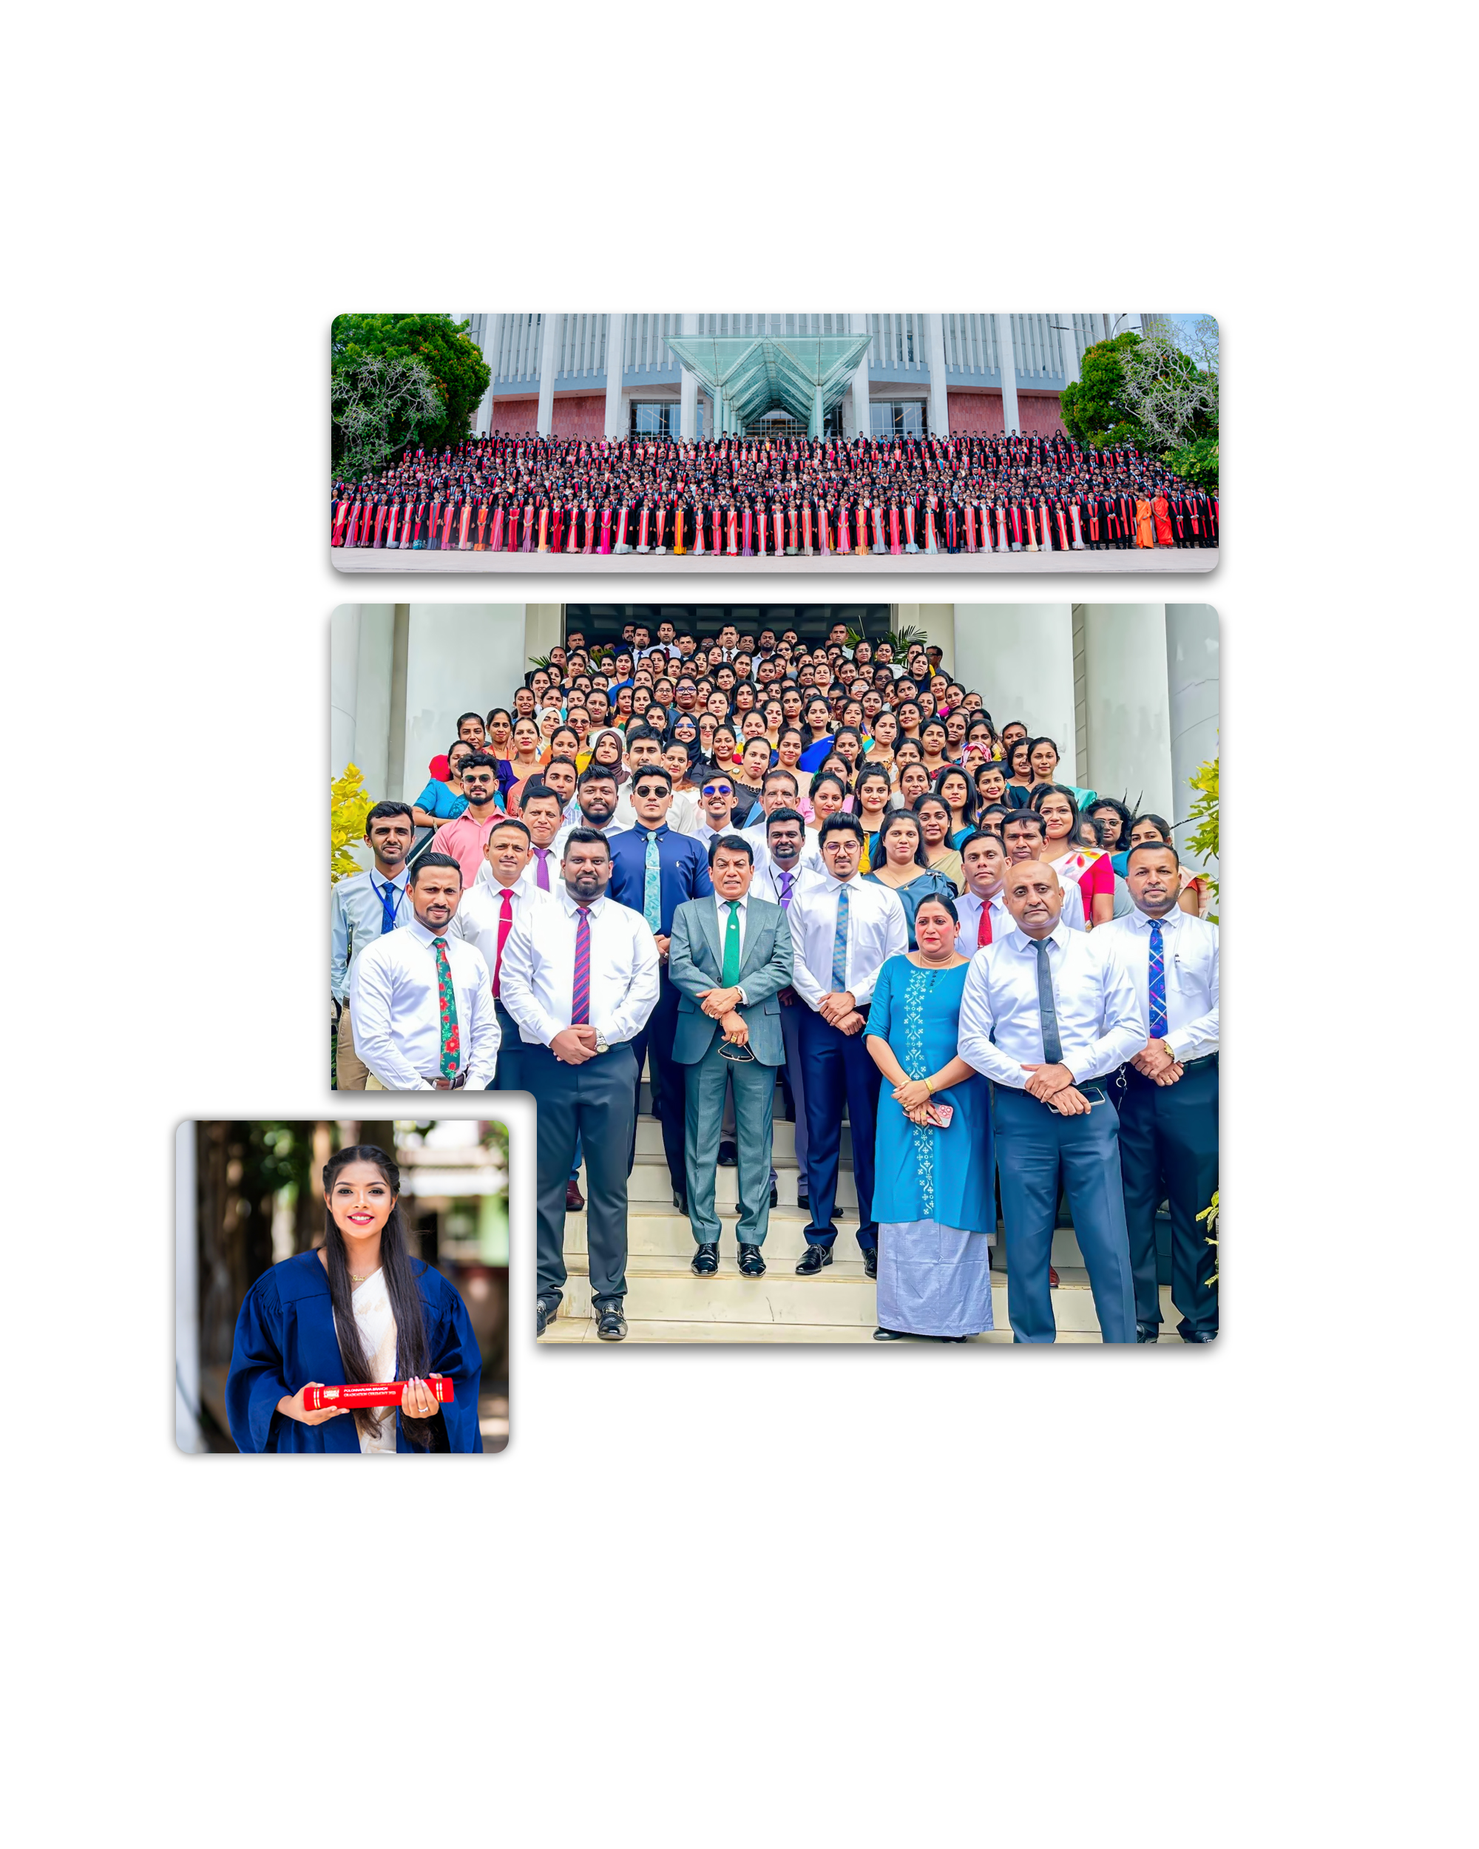
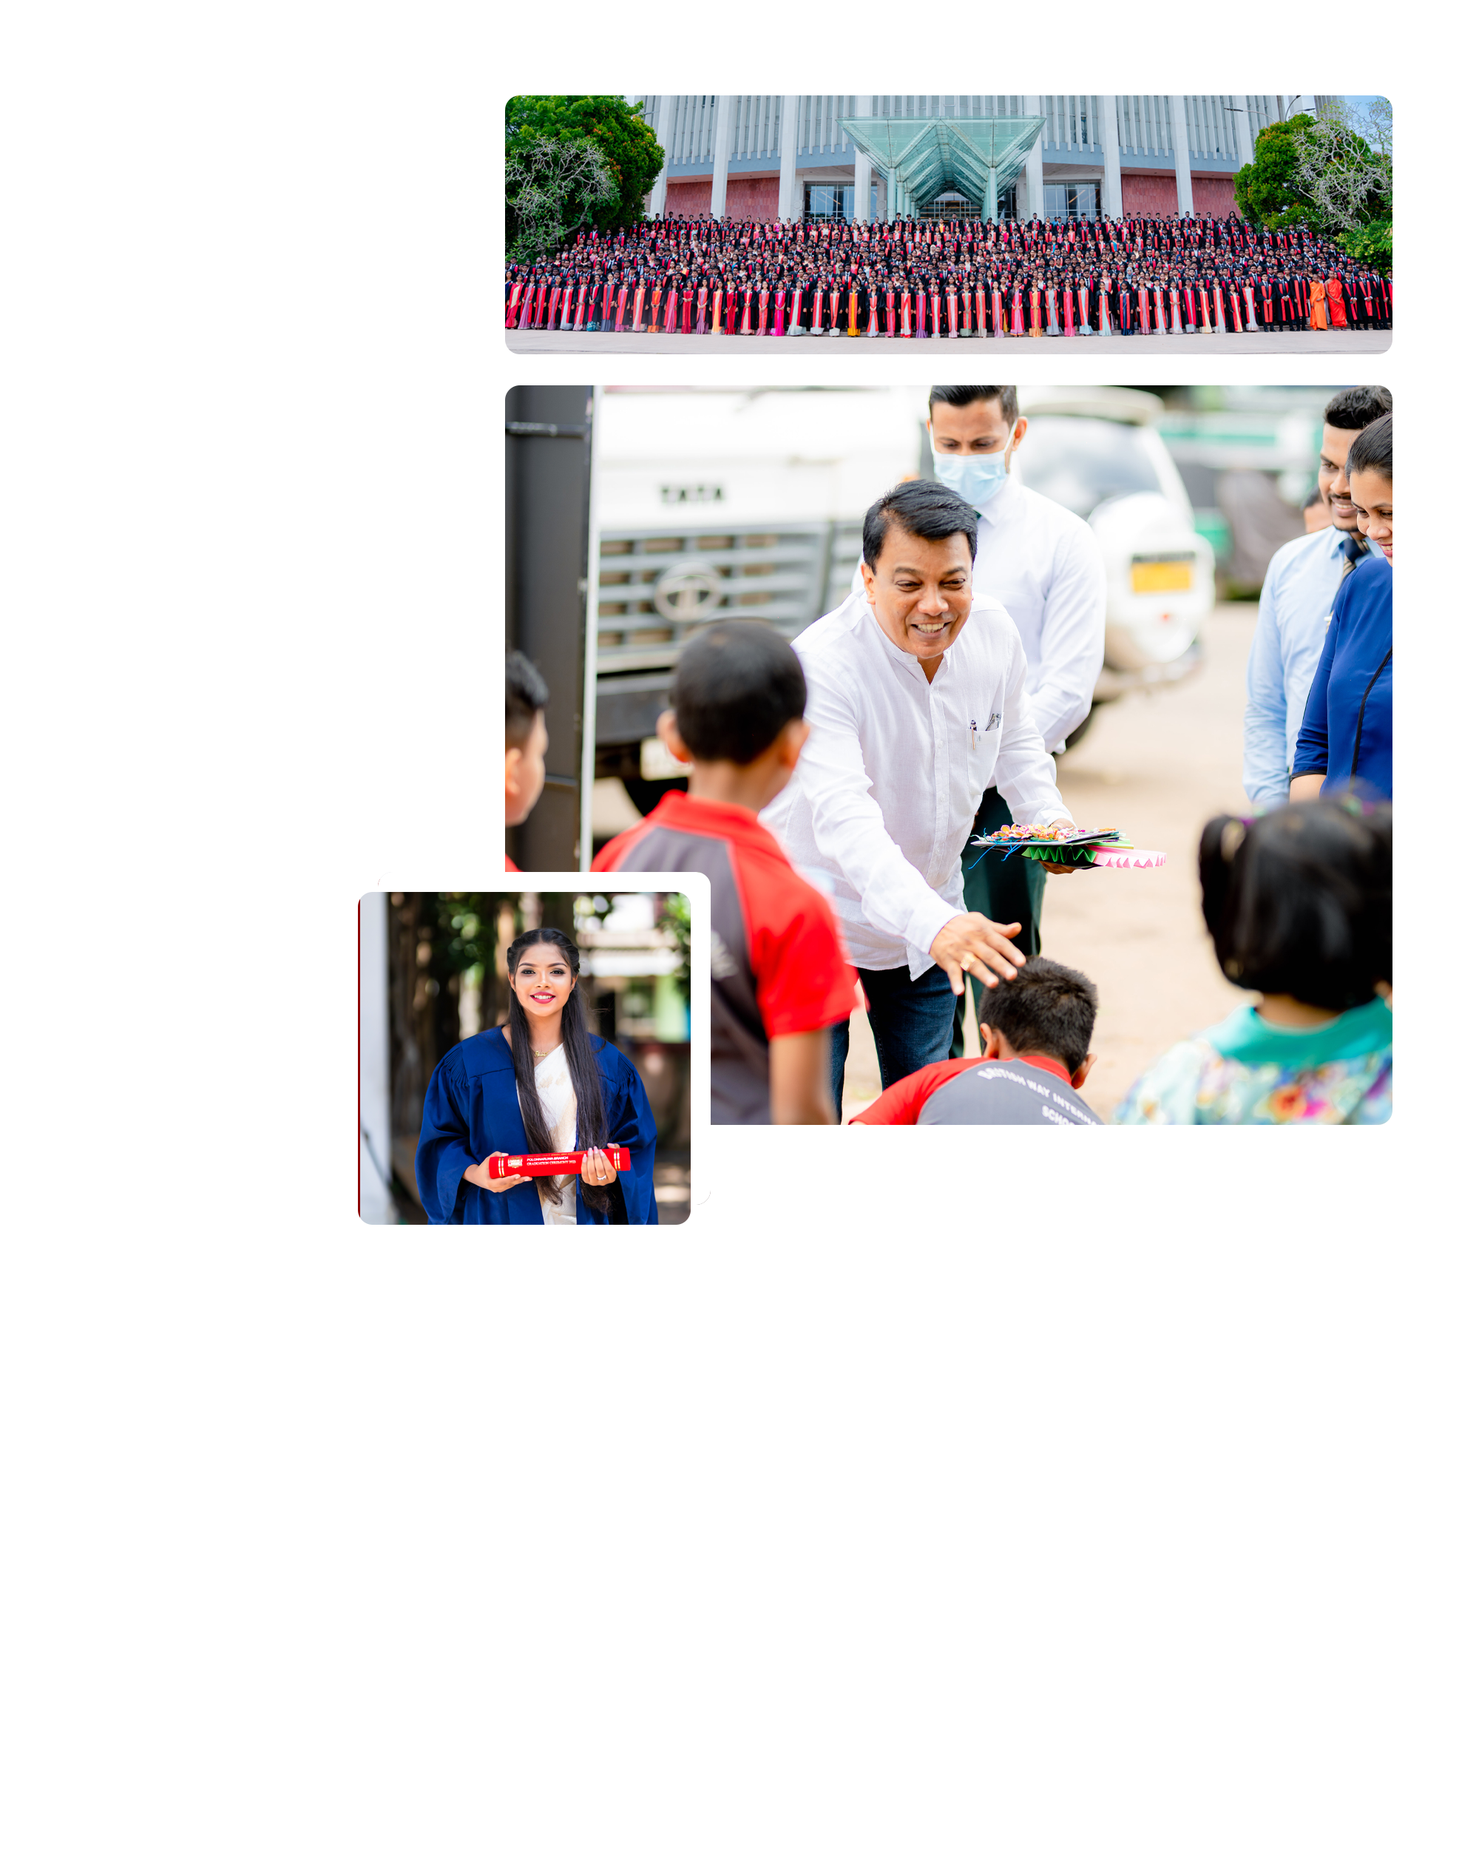
update nov 15.

diff --git a/src/components/CourseDetailPage.jsx b/src/components/CourseDetailPage.jsx
@@ -441,7 +441,7 @@ const CourseDetailPage = () => {
     <Layout>
       <div className="min-h-screen bg-white">
         {/* Hero Section */}
-        <section className="relative h-[60vh] overflow-hidden -mt-24">
+        <section className="relative h-[50vh] sm:h-[55vh] md:h-[60vh] overflow-hidden -mt-24">
           <img 
             src={course.image}
             alt={course.title} 
@@ -450,22 +450,22 @@ const CourseDetailPage = () => {
           <div className="absolute inset-0 bg-gradient-to-r from-black/80 to-black/20" />
           <div className="absolute inset-0 flex items-center z-10">
             <div className="container mx-auto">
-              <div className="text-white max-w-2xl px-8 md:px-16">
-                <h1 className="text-5xl md:text-6xl font-bold mb-4 text-left">{course.title}</h1>
-                <p className="text-xl md:text-2xl font-light">{course.subtitle}</p>
+              <div className="text-white max-w-2xl px-4 sm:px-8 md:px-16">
+                <h1 className="text-3xl sm:text-4xl md:text-5xl lg:text-6xl font-bold mb-2 sm:mb-4 text-left">{course.title}</h1>
+                <p className="text-base sm:text-lg md:text-xl lg:text-2xl font-light">{course.subtitle}</p>
               </div>
             </div>
           </div>
         </section>
 
         {/* Course Details Section */}
-        <section className="py-16">
-          <div className="container mx-auto px-8">
+        <section className="py-8 sm:py-12 md:py-16">
+          <div className="container mx-auto px-4 sm:px-6 md:px-8">
             {/* Back to Courses Button */}
-            <div className="mb-8">
+            <div className="mb-6 sm:mb-8">
               <button
                 onClick={() => navigate('/courses')}
-                className="flex items-center text-blue-600 hover:text-blue-800 transition-colors"
+                className="flex items-center text-blue-600 hover:text-blue-800 transition-colors text-sm sm:text-base"
               >
                 <ArrowLeft className="w-4 h-4 mr-2" />
                 Back to All Courses
@@ -474,44 +474,44 @@ const CourseDetailPage = () => {
 
             <div className="max-w-5xl mx-auto">
               {/* Course Stats - Modern Cards */}
-              <div className="grid grid-cols-2 md:grid-cols-4 gap-4 mb-12">
-                <div className="bg-gradient-to-br from-black/10 via-blue-900/20 to-blue-800/30 backdrop-blur-sm p-6 rounded-xl border border-gray-300/30 shadow-sm">
-                  <p className="text-sm text-gray-700 mb-2">Course Length</p>
-                  <p className="text-xl font-bold text-gray-900">{course.courseDuration}</p>
+              <div className="grid grid-cols-2 md:grid-cols-4 gap-3 sm:gap-4 mb-8 sm:mb-12">
+                <div className="bg-gradient-to-br from-black/10 via-blue-900/20 to-blue-800/30 backdrop-blur-sm p-4 sm:p-6 rounded-xl border border-gray-300/30 shadow-sm">
+                  <p className="text-xs sm:text-sm text-gray-700 mb-1 sm:mb-2">Course Length</p>
+                  <p className="text-lg sm:text-xl font-bold text-gray-900 break-words">{course.courseDuration}</p>
                 </div>
-                <div className="bg-gradient-to-br from-black/10 via-blue-900/20 to-blue-800/30 backdrop-blur-sm p-6 rounded-xl border border-gray-300/30 shadow-sm">
-                  <p className="text-sm text-gray-700 mb-2">Minimum Age</p>
-                  <p className="text-xl font-bold text-gray-900">{course.minimumAge}</p>
+                <div className="bg-gradient-to-br from-black/10 via-blue-900/20 to-blue-800/30 backdrop-blur-sm p-4 sm:p-6 rounded-xl border border-gray-300/30 shadow-sm">
+                  <p className="text-xs sm:text-sm text-gray-700 mb-1 sm:mb-2">Minimum Age</p>
+                  <p className="text-lg sm:text-xl font-bold text-gray-900 break-words">{course.minimumAge}</p>
                 </div>
-                <div className="bg-gradient-to-br from-black/10 via-blue-900/20 to-blue-800/30 backdrop-blur-sm p-6 rounded-xl border border-gray-300/30 shadow-sm">
-                  <p className="text-sm text-gray-700 mb-2">Course Hours</p>
-                  <p className="text-xl font-bold text-gray-900">{course.courseHours}</p>
+                <div className="bg-gradient-to-br from-black/10 via-blue-900/20 to-blue-800/30 backdrop-blur-sm p-4 sm:p-6 rounded-xl border border-gray-300/30 shadow-sm">
+                  <p className="text-xs sm:text-sm text-gray-700 mb-1 sm:mb-2">Course Hours</p>
+                  <p className="text-lg sm:text-xl font-bold text-gray-900 break-words">{course.courseHours}</p>
                 </div>
-                <div className="bg-gradient-to-br from-black/10 via-blue-900/20 to-blue-800/30 backdrop-blur-sm p-6 rounded-xl border border-gray-300/30 shadow-sm">
-                  <p className="text-sm text-gray-700 mb-2">Course Structure</p>
-                  <p className="text-xl font-bold text-gray-900">{course.courseStructure}</p>
+                <div className="bg-gradient-to-br from-black/10 via-blue-900/20 to-blue-800/30 backdrop-blur-sm p-4 sm:p-6 rounded-xl border border-gray-300/30 shadow-sm">
+                  <p className="text-xs sm:text-sm text-gray-700 mb-1 sm:mb-2">Course Structure</p>
+                  <p className="text-lg sm:text-xl font-bold text-gray-900 break-words">{course.courseStructure}</p>
                 </div>
               </div>
 
               {/* Course Image */}
-              <div className="mb-16">
+              <div className="mb-8 sm:mb-12 md:mb-16">
                 <img 
                   src={course.image} 
                   alt={course.title}
-                  className="w-full h-[500px] object-cover rounded-2xl shadow-lg"
+                  className="w-full h-[250px] sm:h-[350px] md:h-[450px] lg:h-[500px] object-cover rounded-xl sm:rounded-2xl shadow-lg"
                 />
               </div>
 
               {/* Course Details Section */}
-              <div className="mb-16 bg-gradient-to-br from-black/5 via-blue-900/10 to-blue-800/15 backdrop-blur-sm rounded-2xl shadow-sm border border-gray-300/30 p-8">
-                <div className="flex items-center justify-between mb-6 pb-4 border-b border-gray-300/40">
-                  <h3 className="text-3xl font-bold text-gray-900">Course Details</h3>
+              <div className="mb-8 sm:mb-12 md:mb-16 bg-gradient-to-br from-black/5 via-blue-900/10 to-blue-800/15 backdrop-blur-sm rounded-xl sm:rounded-2xl shadow-sm border border-gray-300/30 p-4 sm:p-6 md:p-8">
+                <div className="flex flex-col sm:flex-row sm:items-center sm:justify-between mb-4 sm:mb-6 pb-3 sm:pb-4 border-b border-gray-300/40 gap-3 sm:gap-0">
+                  <h3 className="text-xl sm:text-2xl md:text-3xl font-bold text-gray-900">Course Details</h3>
                   {/* Google-style Language Toggle */}
-                  <div className="flex items-center gap-2 text-sm text-gray-600">
-                    <span>Offered in:</span>
+                  <div className="flex items-center gap-1 sm:gap-2 text-xs sm:text-sm text-gray-600 flex-wrap">
+                    <span className="whitespace-nowrap">Offered in:</span>
                     <button
                       onClick={() => setLanguage("en")}
-                      className={`px-3 py-1 rounded transition-all ${
+                      className={`px-2 sm:px-3 py-1 rounded transition-all text-xs sm:text-sm ${
                         language === "en"
                           ? "text-blue-600 font-medium underline decoration-2 underline-offset-2"
                           : "text-blue-600 hover:bg-blue-50"
@@ -522,7 +522,7 @@ const CourseDetailPage = () => {
                     <span className="text-gray-400">|</span>
                     <button
                       onClick={() => setLanguage("si")}
-                      className={`px-3 py-1 rounded transition-all ${
+                      className={`px-2 sm:px-3 py-1 rounded transition-all text-xs sm:text-sm ${
                         language === "si"
                           ? "text-blue-600 font-medium underline decoration-2 underline-offset-2"
                           : "text-blue-600 hover:bg-blue-50"
@@ -532,9 +532,9 @@ const CourseDetailPage = () => {
                     </button>
                   </div>
                 </div>
-                <div className="space-y-5">
+                <div className="space-y-3 sm:space-y-4 md:space-y-5">
                   {course.description[language].map((paragraph, index) => (
-                    <p key={index} className="text-gray-700 leading-relaxed text-lg">
+                    <p key={index} className="text-gray-700 leading-relaxed text-base sm:text-lg">
                       {paragraph}
                     </p>
                   ))}
@@ -542,15 +542,15 @@ const CourseDetailPage = () => {
               </div>
 
               {/* Who is this course suitable for? */}
-              <div className="mb-16 bg-gradient-to-br from-black/10 via-blue-900/20 to-blue-800/30 backdrop-blur-sm rounded-2xl shadow-sm border border-gray-300/30 p-8">
-                <div className="flex items-center justify-between mb-6 pb-4 border-b border-gray-300/40">
-                  <h3 className="text-3xl font-bold text-gray-900">Who is this course suitable for?</h3>
+              <div className="mb-8 sm:mb-12 md:mb-16 bg-gradient-to-br from-black/10 via-blue-900/20 to-blue-800/30 backdrop-blur-sm rounded-xl sm:rounded-2xl shadow-sm border border-gray-300/30 p-4 sm:p-6 md:p-8">
+                <div className="flex flex-col sm:flex-row sm:items-center sm:justify-between mb-4 sm:mb-6 pb-3 sm:pb-4 border-b border-gray-300/40 gap-3 sm:gap-0">
+                  <h3 className="text-xl sm:text-2xl md:text-3xl font-bold text-gray-900">Who is this course suitable for?</h3>
                   {/* Google-style Language Toggle */}
-                  <div className="flex items-center gap-2 text-sm text-gray-600">
-                    <span>Offered in:</span>
+                  <div className="flex items-center gap-1 sm:gap-2 text-xs sm:text-sm text-gray-600 flex-wrap">
+                    <span className="whitespace-nowrap">Offered in:</span>
                     <button
                       onClick={() => setLanguage("en")}
-                      className={`px-3 py-1 rounded transition-all ${
+                      className={`px-2 sm:px-3 py-1 rounded transition-all text-xs sm:text-sm ${
                         language === "en"
                           ? "text-blue-600 font-medium underline decoration-2 underline-offset-2"
                           : "text-blue-600 hover:bg-blue-50"
@@ -561,7 +561,7 @@ const CourseDetailPage = () => {
                     <span className="text-gray-400">|</span>
                     <button
                       onClick={() => setLanguage("si")}
-                      className={`px-3 py-1 rounded transition-all ${
+                      className={`px-2 sm:px-3 py-1 rounded transition-all text-xs sm:text-sm ${
                         language === "si"
                           ? "text-blue-600 font-medium underline decoration-2 underline-offset-2"
                           : "text-blue-600 hover:bg-blue-50"
@@ -571,13 +571,13 @@ const CourseDetailPage = () => {
                     </button>
                   </div>
                 </div>
-                <ul className="space-y-4">
+                <ul className="space-y-3 sm:space-y-4">
                   {course.suitableFor[language].map((item, index) => (
-                    <li key={index} className="flex items-start gap-3">
-                      <span className="flex-shrink-0 w-6 h-6 bg-blue-600 text-white rounded-full flex items-center justify-center text-sm font-bold mt-0.5">
+                    <li key={index} className="flex items-start gap-2 sm:gap-3">
+                      <span className="flex-shrink-0 w-5 h-5 sm:w-6 sm:h-6 bg-blue-600 text-white rounded-full flex items-center justify-center text-xs sm:text-sm font-bold mt-0.5">
                         {index + 1}
                       </span>
-                      <p className="text-gray-700 leading-relaxed text-lg flex-1">
+                      <p className="text-gray-700 leading-relaxed text-base sm:text-lg flex-1">
                         {item}
                       </p>
                     </li>
@@ -586,15 +586,15 @@ const CourseDetailPage = () => {
               </div>
 
               {/* What skills will develop through this course? */}
-              <div className="mb-16 bg-gradient-to-br from-black/10 via-blue-900/20 to-blue-800/30 backdrop-blur-sm rounded-2xl shadow-sm border border-gray-300/30 p-8">
-                <div className="flex items-center justify-between mb-6 pb-4 border-b border-gray-300/40">
-                  <h3 className="text-3xl font-bold text-gray-900">What skills will develop through this course?</h3>
+              <div className="mb-8 sm:mb-12 md:mb-16 bg-gradient-to-br from-black/10 via-blue-900/20 to-blue-800/30 backdrop-blur-sm rounded-xl sm:rounded-2xl shadow-sm border border-gray-300/30 p-4 sm:p-6 md:p-8">
+                <div className="flex flex-col sm:flex-row sm:items-center sm:justify-between mb-4 sm:mb-6 pb-3 sm:pb-4 border-b border-gray-300/40 gap-3 sm:gap-0">
+                  <h3 className="text-xl sm:text-2xl md:text-3xl font-bold text-gray-900">What skills will develop through this course?</h3>
                   {/* Google-style Language Toggle */}
-                  <div className="flex items-center gap-2 text-sm text-gray-600">
-                    <span>Offered in:</span>
+                  <div className="flex items-center gap-1 sm:gap-2 text-xs sm:text-sm text-gray-600 flex-wrap">
+                    <span className="whitespace-nowrap">Offered in:</span>
                     <button
                       onClick={() => setLanguage("en")}
-                      className={`px-3 py-1 rounded transition-all ${
+                      className={`px-2 sm:px-3 py-1 rounded transition-all text-xs sm:text-sm ${
                         language === "en"
                           ? "text-blue-600 font-medium underline decoration-2 underline-offset-2"
                           : "text-blue-600 hover:bg-blue-50"
@@ -605,7 +605,7 @@ const CourseDetailPage = () => {
                     <span className="text-gray-400">|</span>
                     <button
                       onClick={() => setLanguage("si")}
-                      className={`px-3 py-1 rounded transition-all ${
+                      className={`px-2 sm:px-3 py-1 rounded transition-all text-xs sm:text-sm ${
                         language === "si"
                           ? "text-blue-600 font-medium underline decoration-2 underline-offset-2"
                           : "text-blue-600 hover:bg-blue-50"
@@ -615,13 +615,13 @@ const CourseDetailPage = () => {
                     </button>
                   </div>
                 </div>
-                <div className="grid md:grid-cols-2 gap-4">
+                <div className="grid grid-cols-1 md:grid-cols-2 gap-3 sm:gap-4">
                   {course.skillsDeveloped[language].map((skill, index) => (
-                    <div key={index} className="flex items-start gap-3 bg-black/5 backdrop-blur-sm rounded-lg p-4 border border-gray-300/30">
-                      <svg className="flex-shrink-0 w-6 h-6 text-blue-700 mt-0.5" fill="none" stroke="currentColor" viewBox="0 0 24 24">
+                    <div key={index} className="flex items-start gap-2 sm:gap-3 bg-black/5 backdrop-blur-sm rounded-lg p-3 sm:p-4 border border-gray-300/30">
+                      <svg className="flex-shrink-0 w-5 h-5 sm:w-6 sm:h-6 text-blue-700 mt-0.5" fill="none" stroke="currentColor" viewBox="0 0 24 24">
                         <path strokeLinecap="round" strokeLinejoin="round" strokeWidth={2} d="M9 12l2 2 4-4m6 2a9 9 0 11-18 0 9 9 0 0118 0z" />
                       </svg>
-                      <p className="text-gray-700 leading-relaxed text-lg flex-1">
+                      <p className="text-gray-700 leading-relaxed text-base sm:text-lg flex-1">
                         {skill}
                       </p>
                     </div>
@@ -630,17 +630,17 @@ const CourseDetailPage = () => {
               </div>
 
               {/* Apply Section - Keep unchanged as requested */}
-              <div className="text-center mb-8">
-                <h2 className="text-2xl font-bold mb-4">APPLY FOR</h2>
-                <h3 className="text-xl text-gray-600 mb-2">{course.courseDuration.toUpperCase()} ENGLISH DIPLOMA</h3>
-                <p className="text-sm text-gray-500 mb-6">Register Online get early bird course fee</p>
+              <div className="text-center mb-6 sm:mb-8">
+                <h2 className="text-xl sm:text-2xl font-bold mb-3 sm:mb-4">APPLY FOR</h2>
+                <h3 className="text-lg sm:text-xl text-gray-600 mb-2 break-words">{course.courseDuration.toUpperCase()} ENGLISH DIPLOMA</h3>
+                <p className="text-xs sm:text-sm text-gray-500 mb-4 sm:mb-6">Register Online get early bird course fee</p>
               </div>
 
               {/* Registration Button - Keep unchanged as requested */}
               <div className="max-w-2xl mx-auto text-center">
                 <button
                   onClick={handleOpenPopup}
-                  className="bg-blue-700 text-white py-4 px-8 rounded-lg font-semibold hover:bg-blue-800 transition-colors text-lg w-full md:w-auto"
+                  className="bg-blue-700 text-white py-3 sm:py-4 px-6 sm:px-8 rounded-lg font-semibold hover:bg-blue-800 transition-colors text-base sm:text-lg w-full md:w-auto"
                 >
                   REGISTER NOW →
                 </button>
